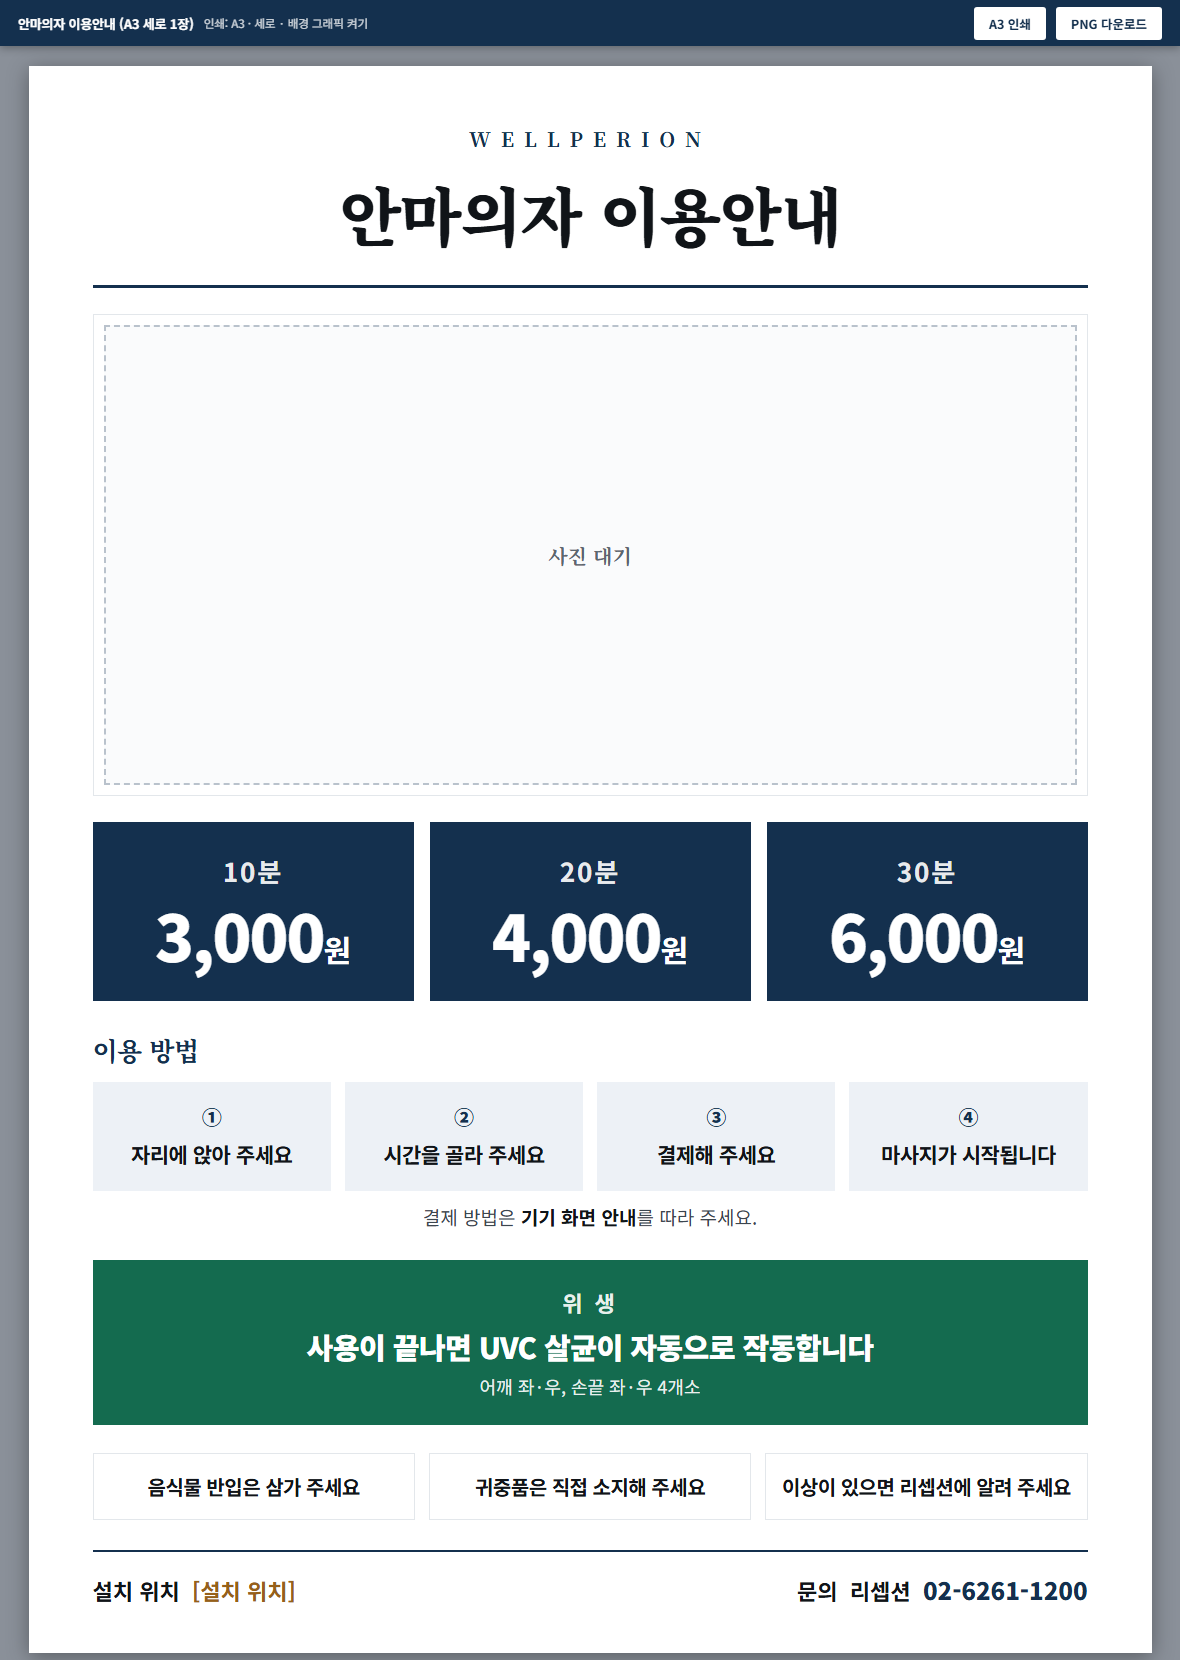
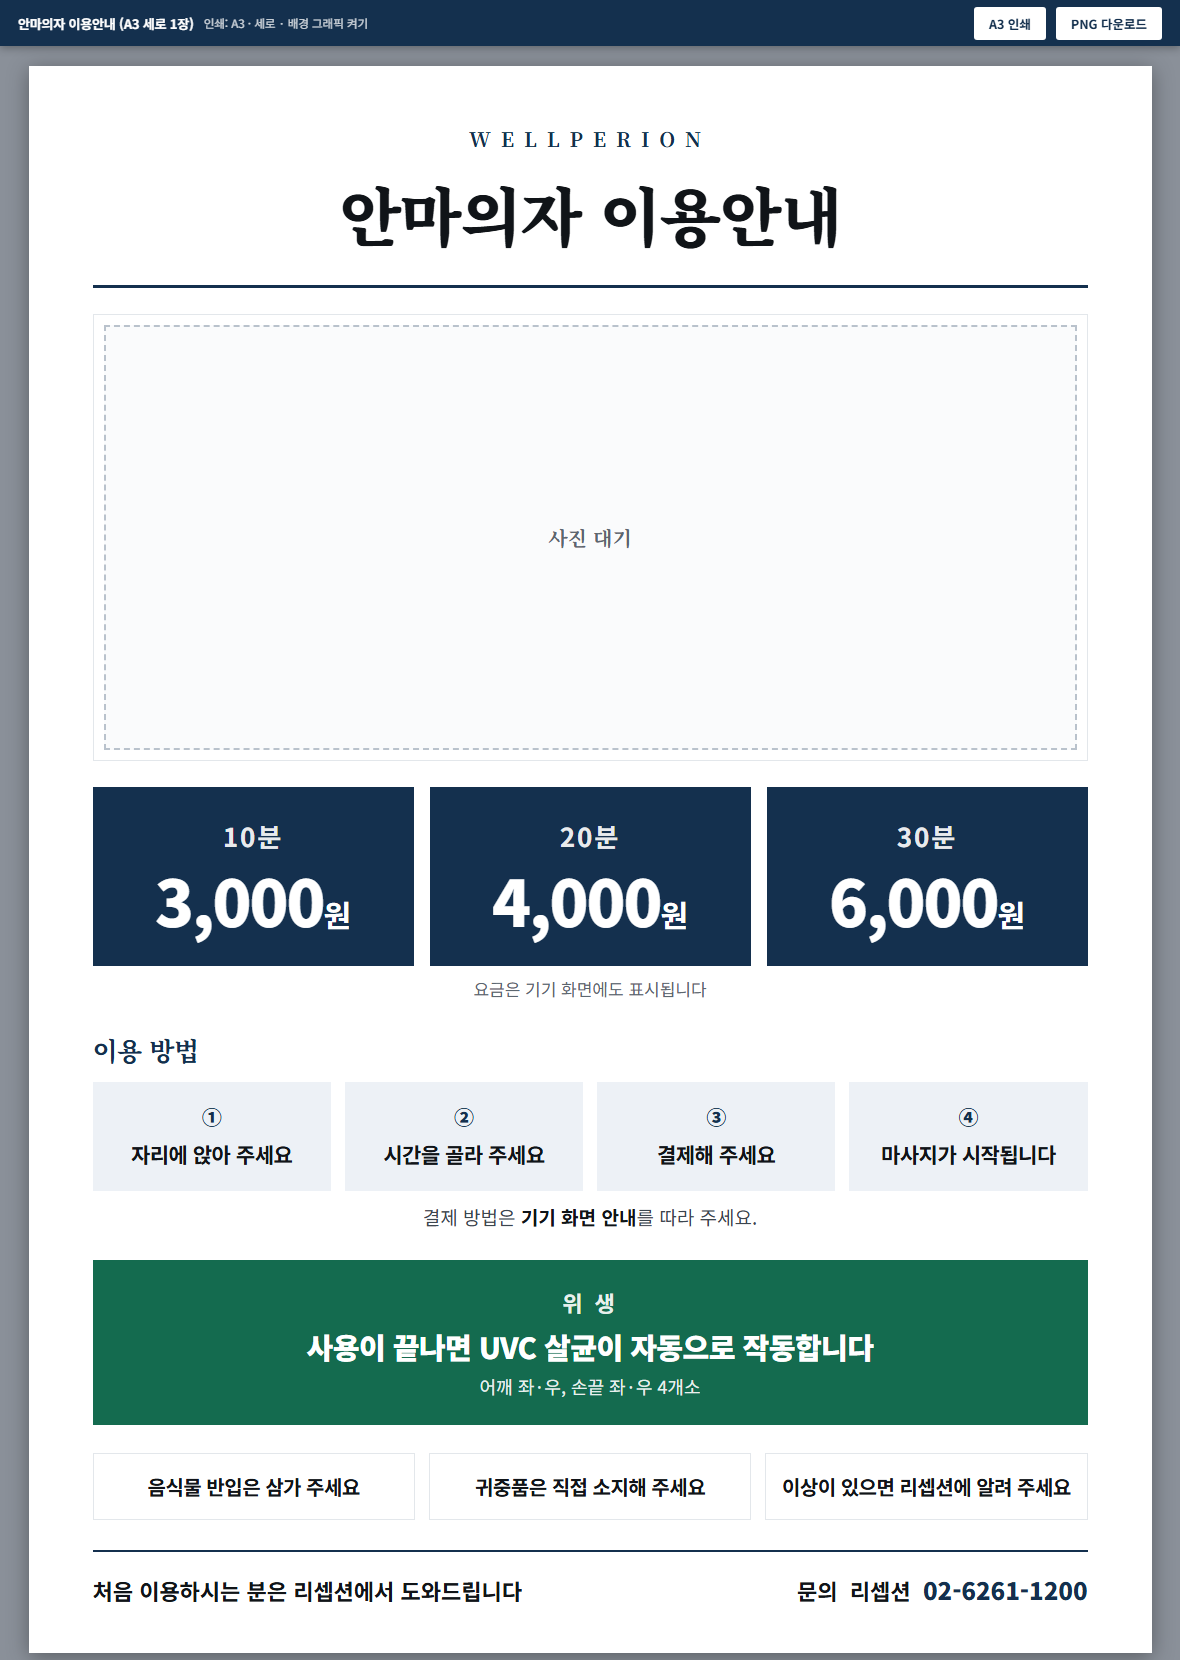
docs(ceo): 안마의자 이용안내 공지물 마무리 — 설치 위치 자리 제거·첫 이용 안내 추가 (GM 지시 2026-08-28)

Changed region(s): [[0.061, 0.4608, 0.9458, 0.6145], [0.061, 0.9524, 0.4271, 0.9831], [0.4576, 0.3072, 0.5492, 0.338]]

diff --git a/3. 웰페리온 가이드/reports/260828_안마의자_이용안내_A3세로.html b/3. 웰페리온 가이드/reports/260828_안마의자_이용안내_A3세로.html
@@ -52,6 +52,7 @@
   .price .m{ font-size:26px; font-weight:700; letter-spacing:2px; opacity:.9; }
   .price .w{ font-size:64px; font-weight:900; letter-spacing:-2px; line-height:1.1; margin-top:10px; }
   .price .w small{ font-size:30px; font-weight:700; letter-spacing:0; }
+  .price-note{ margin-top:10px; font-size:17px; text-align:center; color:#5C666F; }
 
   /* 이용 방법 */
   .sec{ margin-top:30px; }
@@ -77,7 +78,6 @@
   .foot{ margin-top:30px; border-top:2px solid var(--navy); padding-top:20px;
     display:flex; align-items:center; justify-content:space-between; }
   .foot .loc{ font-size:22px; font-weight:700; }
-  .foot .loc .slot{ color:var(--warn); }
   .foot .ask{ font-size:22px; font-weight:700; text-align:right; }
   .foot .ask b{ color:var(--navy); font-size:24px; }
 </style>
@@ -112,6 +112,7 @@
     <div class="p"><div class="m">20분</div><div class="w">4,000<small>원</small></div></div>
     <div class="p"><div class="m">30분</div><div class="w">6,000<small>원</small></div></div>
   </div>
+  <div class="price-note">요금은 기기 화면에도 표시됩니다</div>
 
   <!-- 이용 방법 -->
   <div class="sec">
@@ -139,9 +140,9 @@
     <div class="c">이상이 있으면 리셉션에 알려 주세요</div>
   </div>
 
-  <!-- 위치·문의 -->
+  <!-- 첫 이용 안내·문의 -->
   <div class="foot">
-    <div class="loc">설치 위치 &nbsp;<span class="slot">[설치 위치]</span></div>
+    <div class="loc">처음 이용하시는 분은 리셉션에서 도와드립니다</div>
     <div class="ask">문의 &nbsp;리셉션 &nbsp;<b>02-6261-1200</b></div>
   </div>
 
